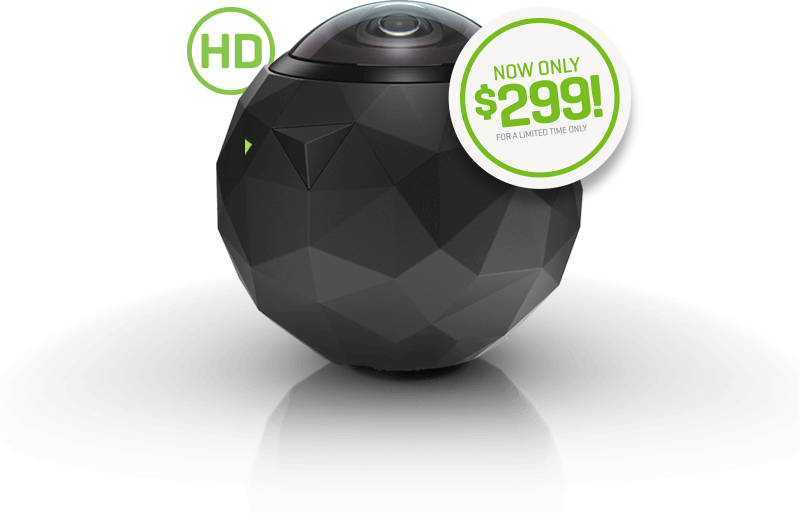
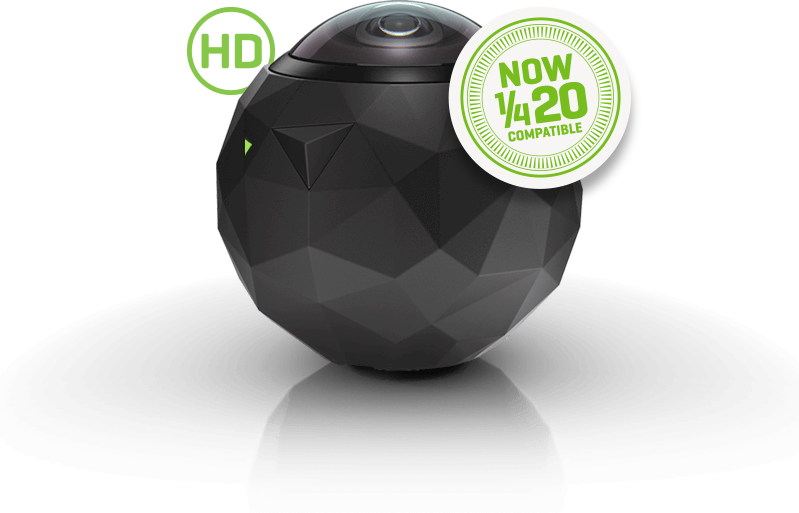
360fly HD product image updated, 360 Fly HD product hero image updated and RWD

Changed region(s): [[0.5707, 0.0312, 0.781, 0.3431]]

diff --git a/skin/frontend/b-responsive/360fly/css/custom.css b/skin/frontend/b-responsive/360fly/css/custom.css
@@ -356,8 +356,10 @@ input.qty{width:100px !important;}
 /* Product Desc Page Same as landing Page Start */
 
 .category-cameras .landing-img{width: 100%;position: absolute;top: 30px;right: -35px;transform: scale(1.65);}
+.category-cameras .camera-hd .landing-img {position: relative;top: 125px;right: 0;max-width: 100%;display: block;transform: scale(1);}
 .category-cameras .camera-4k .landing-img{top: 220px;right: 110px;}
 .category-cameras .short-description.std{padding-top: 250px;text-align: right;}
+.category-cameras .camera-hd .short-description.std {padding-top: 100px;}
 .short-description ul li:before{content: "";background-color: #78be20;position: absolute;margin-left: -20px;width: 7px;height: 7px;font-size: 20px;border-radius: 100px;margin-top: 7px;}
 .category-cameras h3{font-size: 26px;color: #000;line-height: 1;font-family: FlySans-SemiBold,Helvetica,Arial,sans-serif;
     font-weight: 500;margin:3px 0 8px;}

diff --git a/skin/frontend/b-responsive/360fly/css/media-queries.css b/skin/frontend/b-responsive/360fly/css/media-queries.css
@@ -116,6 +116,9 @@
 	.category-cameras .landing-img{width:100%;right:0;}
 	.category-cameras .short-description.std{padding-top:0;}
 	.category-cameras .camera-info,.category-cameras .short-description.std{text-align:left;}
+	.category-cameras .camera-hd .camera-info{margin-top:0;}
+	.category-cameras .camera-hd .short-description.std{padding-top: 0;}
+	.category-cameras .camera-hd .landing-img{top:30px;}
 	/* Product Desc Page Same as landing Page End */
 	/*app page */
 	.cms-australia a#macosx,.cms-australia a#windows{min-width:100%;}
@@ -214,6 +217,7 @@
 	.about-contain{margin-left:15px;}
 	/* Product Desc Page Same as landing Page Start */
 	.category-cameras .landing-img{top:120px;}
+	.category-cameras .camera-hd .landing-img{top:125px !important;}
 	/* Product Desc Page Same as landing Page End */
 	/* Checkout index start */
 	.checkout-cart-index input.qty{width:65px !important;margin-top: 15px;}
